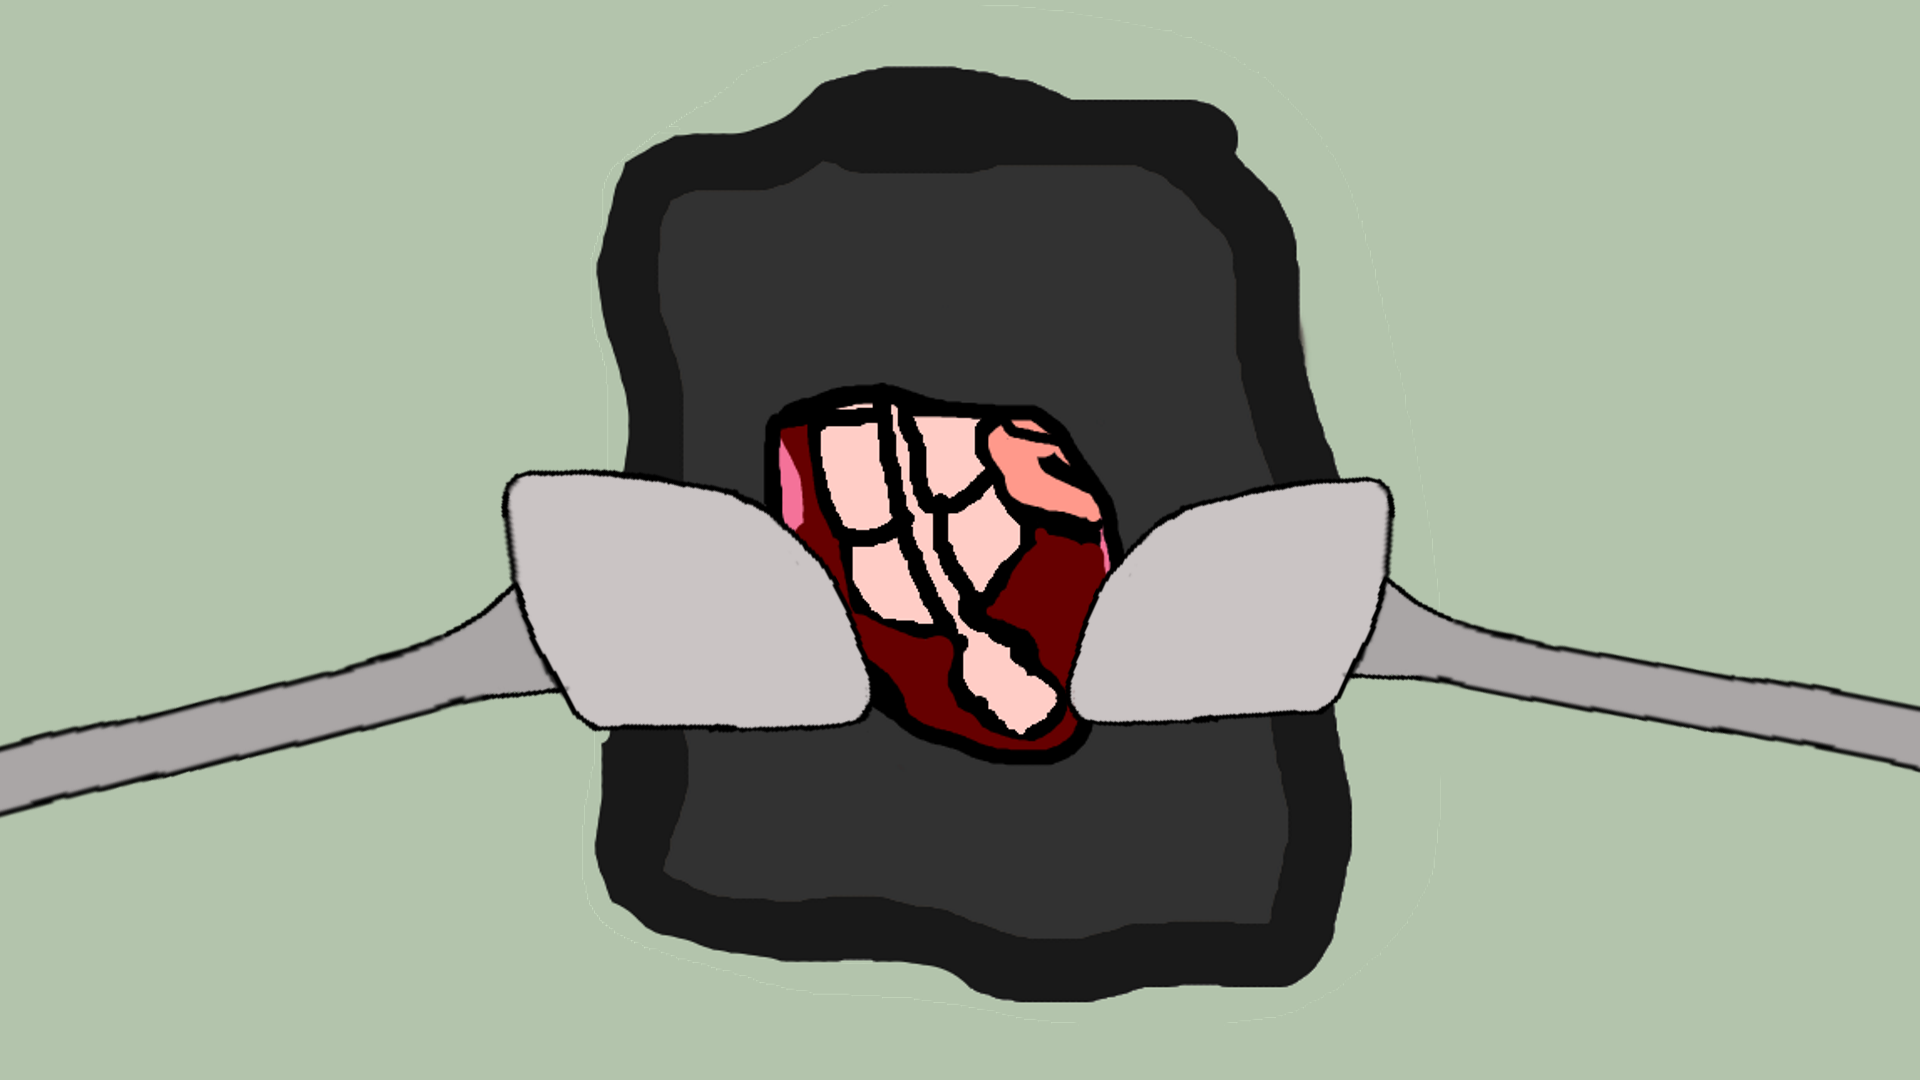
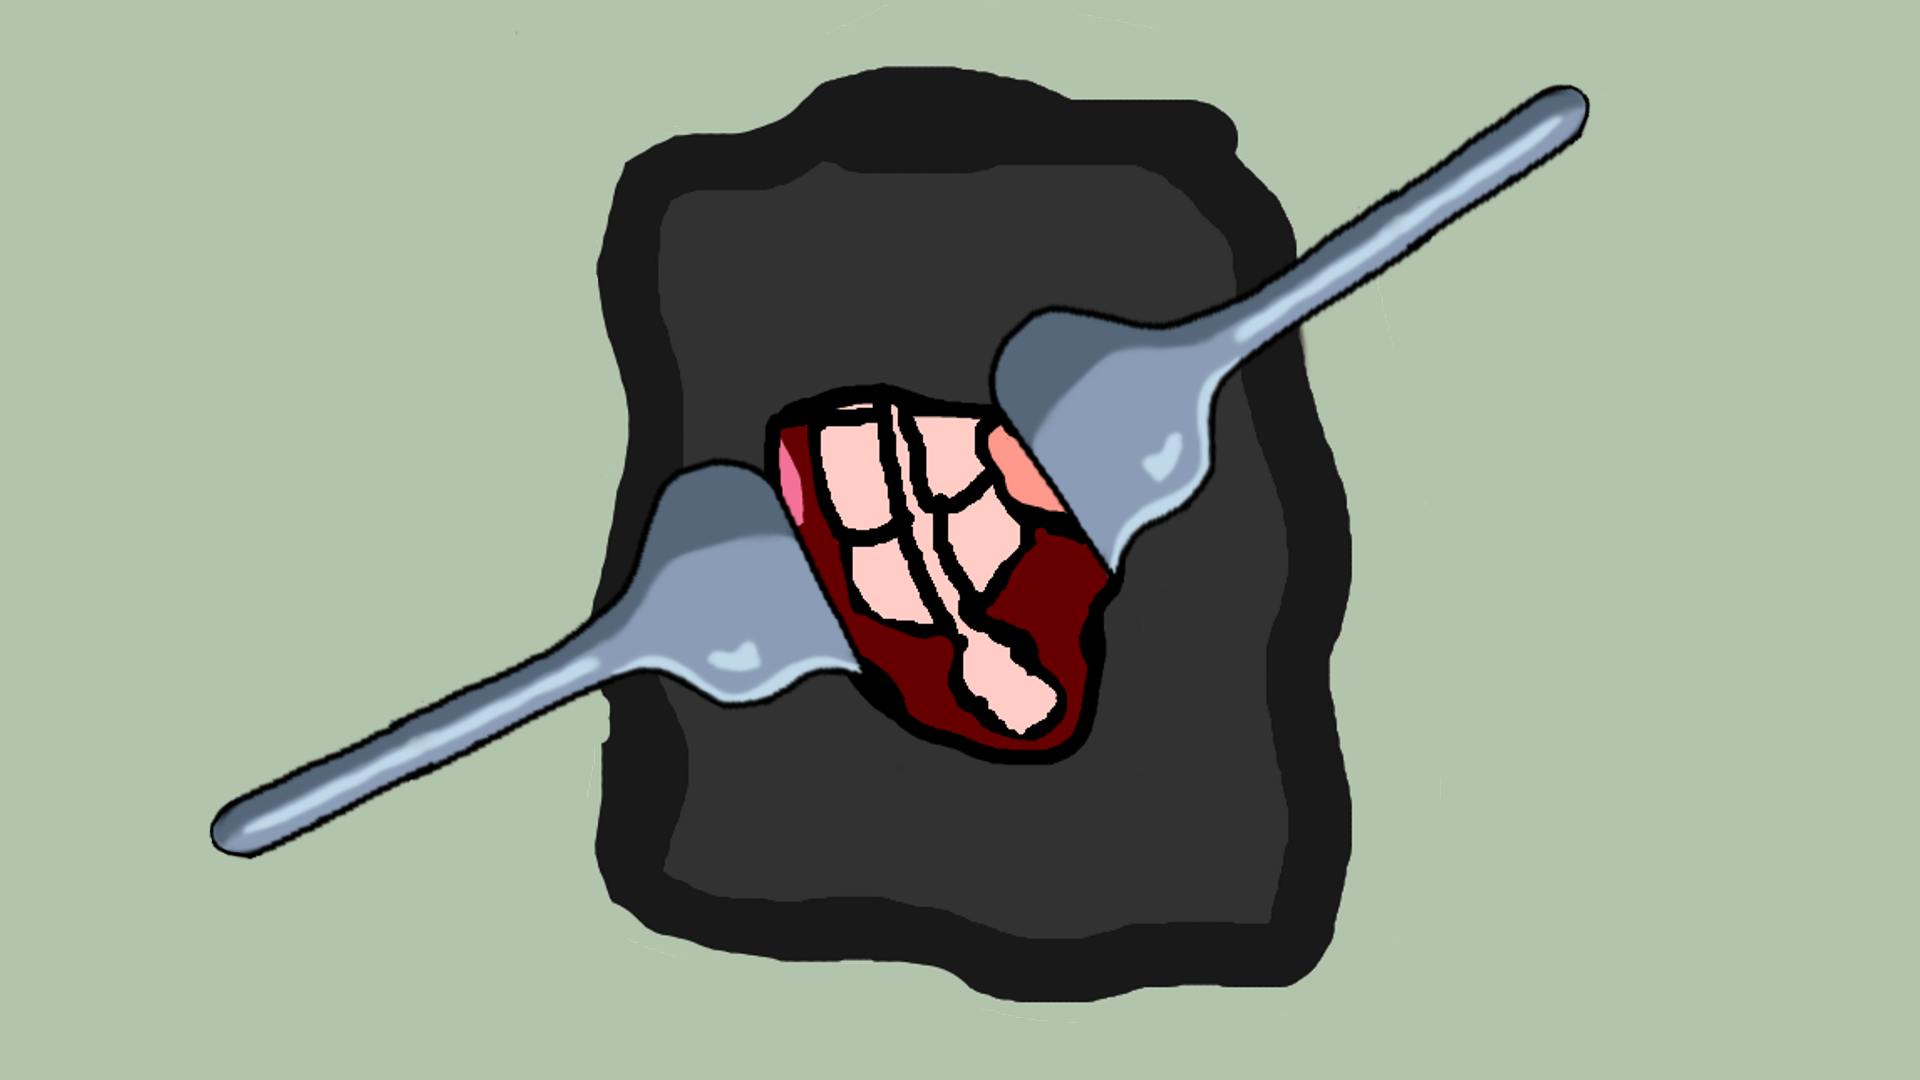
Make first half of level 2 and change retractor

Changed region(s): [[0.5, 0.0611, 1.0, 0.7333], [0.0, 0.4278, 0.4688, 0.7944]]

diff --git a/include/Levels/levelTwoStages.h b/include/Levels/levelTwoStages.h
@@ -2,26 +2,180 @@
 
 void levelTwoStageOne()
 {
-    Texture2D textures = LoadTexture("../res/needle.png");
+    Texture2D background = LoadTexture("../res/Level2_images/patient.png");
+    Font font = LoadFontEx("../res/fonts/backwardssans.otf", 64, 0 , 250);
+
+    const char* text[3] = {
+        "Hello doctor in training, today your task will be to \noperate Black Noir's appendix. [Click Enter to continue]",
+        "You will be given instruments for the operation.\n[Click Enter to continue]",
+        "You will be guided by your mentor.\n[Click Enter to continue]"
+    };
+    
+    const int fontSize = 48;
+    
+    Vector2 textSize[3];
+    Vector2 textPosition[3];
+
+    for (int i = 0; i < 3; i++)
+        textSize[i] = MeasureTextEx(font, text[i], fontSize, 2.0f);
+
+    for (int i = 0; i < 3; i++)
+        textPosition[i] = {GetScreenWidth()/2 - textSize[i].x/2, GetScreenHeight() - textSize[i].y - 200};
+
+    int tutorial = 0;
+
+    while (!WindowShouldClose())
+    {    
+        // Handle input
+         if (IsKeyPressed(KEY_ESCAPE))
+            pauseMenu();    
+
+        // Draw
+        BeginDrawing();
+        ClearBackground(RAYWHITE);
+        backgroundImage(background);
+
+        if (tutorial != 3)
+            DrawTextEx(font, text[tutorial], textPosition[tutorial], fontSize, 2.0f, BLACK);
+
+        EndDrawing();
+
+        if (tutorial == 3)
+        {
+            currentStage++;
+            levelTwo();
+        }
+
+        if (IsKeyPressed(KEY_ENTER) && tutorial < 3)
+            tutorial++;
+    }
+
+    // Unload textures
+    UnloadTexture(background);
+
+    // De-initialization
+    CloseWindow();
+}
+
+void levelTwoStageTwo()
+{
+    Texture2D background = LoadTexture("../res/Level2_images/stage1_pre_cut.png");
+    const Texture2D& scalpel = LoadTexture("../res/scalpel.png");
+
+    Vector2 startPos = { 976, 240 }; // Starting position of image
+    Vector2 endPos = { 973, 766 }; // Ending position of image
+
+    Vector2 position = { 0, 0 };
+    Vector2 offset = { 0, 0 };
+    bool isDragging = false;
 
     while (!WindowShouldClose())
     {
+        // Handle input
         if (IsKeyPressed(KEY_ESCAPE))
+            pauseMenu();    
+
+        moveTexture(scalpel, position, offset, isDragging);
+
+        Rectangle rect = { position.x, position.y, (float)scalpel.width, (float)scalpel.height };
+        if (CheckCollisionCircleRec(startPos, 10, rect))
         {
-            pauseMenu();
+            cutAnimation(scalpel, background, startPos, endPos);
+            DrawCircleV(startPos, 10, BLUE);
         }
 
+        // Draw
         BeginDrawing();
-        
         ClearBackground(RAYWHITE);
+        backgroundImage(background);
 
-        DrawTexture(textures, 0, 0, WHITE);
+        DrawTexture(scalpel, position.x, position.y, WHITE);
 
+        DrawCircleV(startPos, 10, BLUE);
         EndDrawing();
     }
+
     // Unload textures
-    UnloadTexture(textures);
+    UnloadTexture(background);
+    UnloadTexture(scalpel);
 
     // De-initialization
-    CloseWindow();    
+    CloseWindow();
+}
+
+void levelTwoStageThree()
+{
+    Texture2D background = LoadTexture("../res/Level2_images/cut_wound.png");
+
+    Texture2D retract = LoadTexture("../res/retractor.png");
+
+    Vector2 startPos[2] = {
+        { 939, 506 },
+        { 979, 506 }
+    };
+
+    Vector2 position = {0, 0};
+    Vector2 offset = {0, 0};
+    bool isDragging = false;
+
+    while (!WindowShouldClose())
+    {
+        // Handle input
+         if (IsKeyPressed(KEY_ESCAPE))
+            pauseMenu();    
+
+        moveTexture(retract, position, offset, isDragging);
+
+        // Update image 1
+        if (IsMouseButtonPressed(MOUSE_LEFT_BUTTON))
+        {
+            Vector2 mousePosition = GetMousePosition();
+            if (CheckCollisionPointRec(mousePosition, { position.x, position.y, (float)retract.width, (float)retract.height }))
+            {
+                offset = Vector2Subtract(mousePosition, position);
+                isDragging = true;
+            }
+        }
+
+        if (isDragging && IsMouseButtonDown(MOUSE_LEFT_BUTTON))
+        {
+            Vector2 mousePosition = GetMousePosition();
+            position = Vector2Subtract(mousePosition, offset);
+        }
+        else
+            isDragging = false;
+
+        Rectangle rect = {position.x, position.y, (float)retract.width, (float)retract.height};
+
+        bool collidesWithCircle = CheckCollisionCircleRec(startPos[0], 10, rect) && CheckCollisionCircleRec(startPos[1], 10, rect);
+
+        // Draw
+        BeginDrawing();
+        ClearBackground(RAYWHITE);
+
+        backgroundImage(background);
+
+        DrawTexture(retract, position.x, position.y, WHITE);    
+
+        for (int i = 0; i < 2; i++)
+            DrawCircleV(startPos[i], 10, BLUE);
+
+        if (collidesWithCircle)
+        {
+            currentStage++;
+            levelTwo();
+        }
+        EndDrawing();
+    }
+
+    // Unload textures
+    UnloadTexture(background);
+
+    // De-initialization
+    CloseWindow();
+}
+
+void levelTwoStageFour()
+{
+    
 }

diff --git a/include/Levels/functionsForLevels.h b/include/Levels/functionsForLevels.h
@@ -28,7 +28,18 @@ void fadeBetweenStages(float fadeTime)
     }
 
     currentStage++;
-    levelOne();
+    switch(currentLevel)
+    {
+        case 1:
+            levelOne();
+            break;
+        case 2:
+            levelTwo();
+            break;
+        case 3:
+            levelThree();
+            break;
+    }
 }
 
 void moveTexture(Texture2D texture, Vector2& position, Vector2& offset, bool& isDragging)
@@ -81,16 +92,19 @@ void cutAnimation(Texture2D instrument, Texture2D background, Vector2 startPos, 
         }
         else
         {
-
-            switch (currentStage)
+            currentStage++;
+            switch(currentLevel)
             {
-                case 3:
-                    currentStage++;
+                case 1:
                     levelOne();
                     break;
+                case 2:
+                    levelTwo();
+                    break;
+                case 3:
+                    levelThree();
+                    break;
             }
-            
-            break;
         }
 
         // Draw
@@ -103,7 +117,6 @@ void cutAnimation(Texture2D instrument, Texture2D background, Vector2 startPos, 
         DrawTexture(instrument, currPos.x, currPos.y - instrument.height, WHITE);
 
         EndDrawing();
-
     }
 }
 

diff --git a/include/Levels/levelTwo.h b/include/Levels/levelTwo.h
@@ -7,5 +7,17 @@ void levelTwo()
         case 1:
             levelTwoStageOne();
             break;
+        case 2:
+            fadeBetweenStages(2.0f);
+            break;
+        case 3:
+            levelTwoStageTwo();
+            break;
+        case 4:
+            levelTwoStageThree();
+            break;
+        case 5:
+            levelTwoStageFour();
+            break;
     }
 }

diff --git a/include/Levels/levelOneStages.h b/include/Levels/levelOneStages.h
@@ -1,7 +1,5 @@
 #include <globals.h>
 
-extern int currentStage;
-
 void levelOneStageOne()
 {
     Texture2D background = LoadTexture("../res/Level1_images/patient.png");
